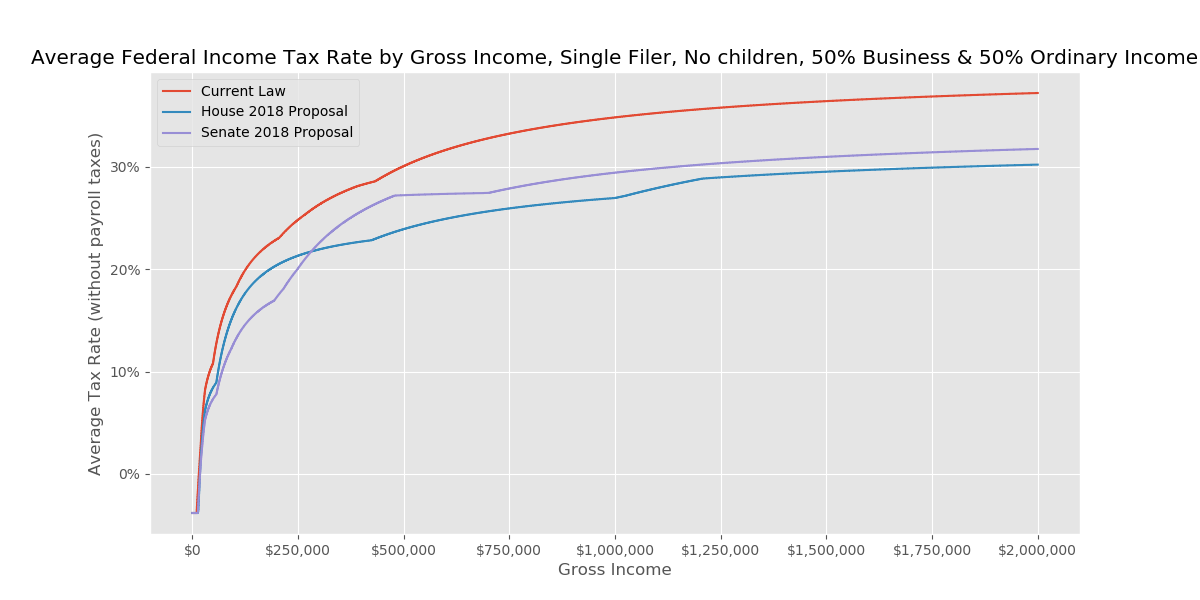
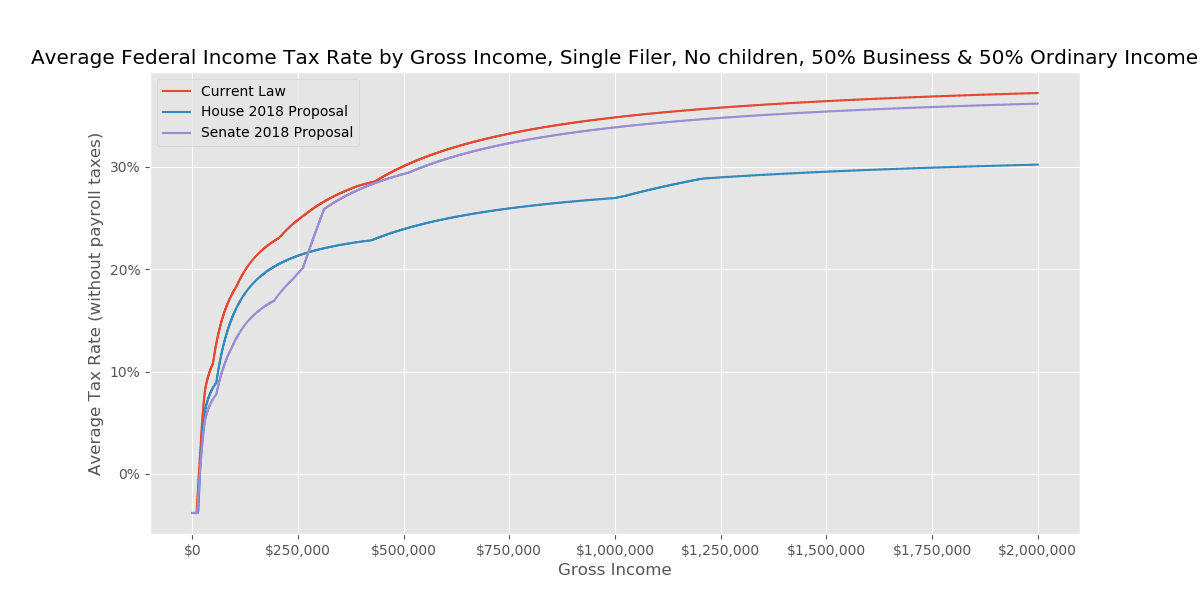
add experimental business income phase out (WIP)

diff --git a/taxsim/tax_funcs.py b/taxsim/tax_funcs.py
@@ -307,12 +307,37 @@ def senate_2018_taxable_income(policy, taxpayer, agi):
             itemized_total = line1 - line9  # aka line10
 
     deductions = max(itemized_total, standard_deduction)
-    deduction_type = "standard" if deductions == standard_deduction else "itemized"
-    deductions += taxpayer['business_income'] * 0.23 # as of senate amendment 12/1/2017
+    deduction_type = "standard" if deductions == standard_deduction else "itemized"  # TODO: fix
+
+    taxable_income_before = max(0, taxable_income - personal_exemption_amt - deductions)
+
+    BUSINESS_DEDUCTION_RATE = 0.23
+
+    business_income_deduction = taxpayer['business_income'] * BUSINESS_DEDUCTION_RATE  # as of senate amendment 12/1/2017
+
+    business_income_deduction = min(business_income_deduction, taxable_income_before * BUSINESS_DEDUCTION_RATE)
+
+    if taxpayer["filing_status"] == 1:
+        po_start = 500000
+        po_length = 100000
+    else:
+        po_start = 250000
+        po_length = 50000
+
+    if taxable_income_before > po_start:
+        taxable_income_over = taxable_income_before - po_start
+        if taxable_income_over > po_length:
+            business_income_deduction = 0
+        else:
+            multiplier = 1 - (taxable_income_over / po_length)
+            business_income_deduction = business_income_deduction * multiplier
+
+    deductions += business_income_deduction
+    agi = agi - business_income_deduction
 
     taxable_income = max(0, taxable_income - personal_exemption_amt - deductions)
 
-    return taxable_income, deduction_type, deductions, personal_exemption_amt, pease_limitation_amt
+    return taxable_income, deduction_type, deductions, personal_exemption_amt, pease_limitation_amt, taxable_income_before, agi
 
 
 def fed_ordinary_income_tax(policy, taxpayer, taxable_income):

diff --git a/taxsim/taxsim.py b/taxsim/taxsim.py
@@ -302,12 +302,15 @@ def calc_senate_2018_taxes(taxpayer, policy):
     results["agi"] = agi
 
     # Taxable income
-    taxable_income, deduction_type, deductions, personal_exemption_amt, pease_limitation_amt = tax_funcs.senate_2018_taxable_income(policy, taxpayer, agi)
+    taxable_income, deduction_type, deductions, personal_exemption_amt, pease_limitation_amt, taxable_income_before, new_agi = tax_funcs.senate_2018_taxable_income(policy, taxpayer, agi)
     results["taxable_income"] = taxable_income
+    results["taxable_income_before"] = taxable_income_before
     results["deduction_type"] = deduction_type
     results["deductions"] = deductions
     results["personal_exemption_amt"] = personal_exemption_amt
     results["pease_limitation_amt"] = pease_limitation_amt
+    agi = new_agi
+    results['agi'] = new_agi
 
     # Ordinary income tax
     income_tax_before_credits = tax_funcs.fed_ordinary_income_tax(policy, taxpayer, taxable_income)

diff --git a/taxsim/graph.py b/taxsim/graph.py
@@ -38,6 +38,19 @@ graphs = [
         "step": 100
     },
     {
+        "main_income_type": "Business Income",
+        "file_name": "married_3_business",
+        "filing_status": 1,
+        "child_dep": 3,
+        "income_ratios": {
+            "ordinary": 0.0,
+            "business": 1.0,
+            "ss": 0.0,
+            "qualified": 0.0},
+        "payroll": 0,
+        "step": 100
+    },
+    {
         "main_income_type": "Qualified Income",
         "file_name": "single_0_qualified",
         "filing_status": 0,
